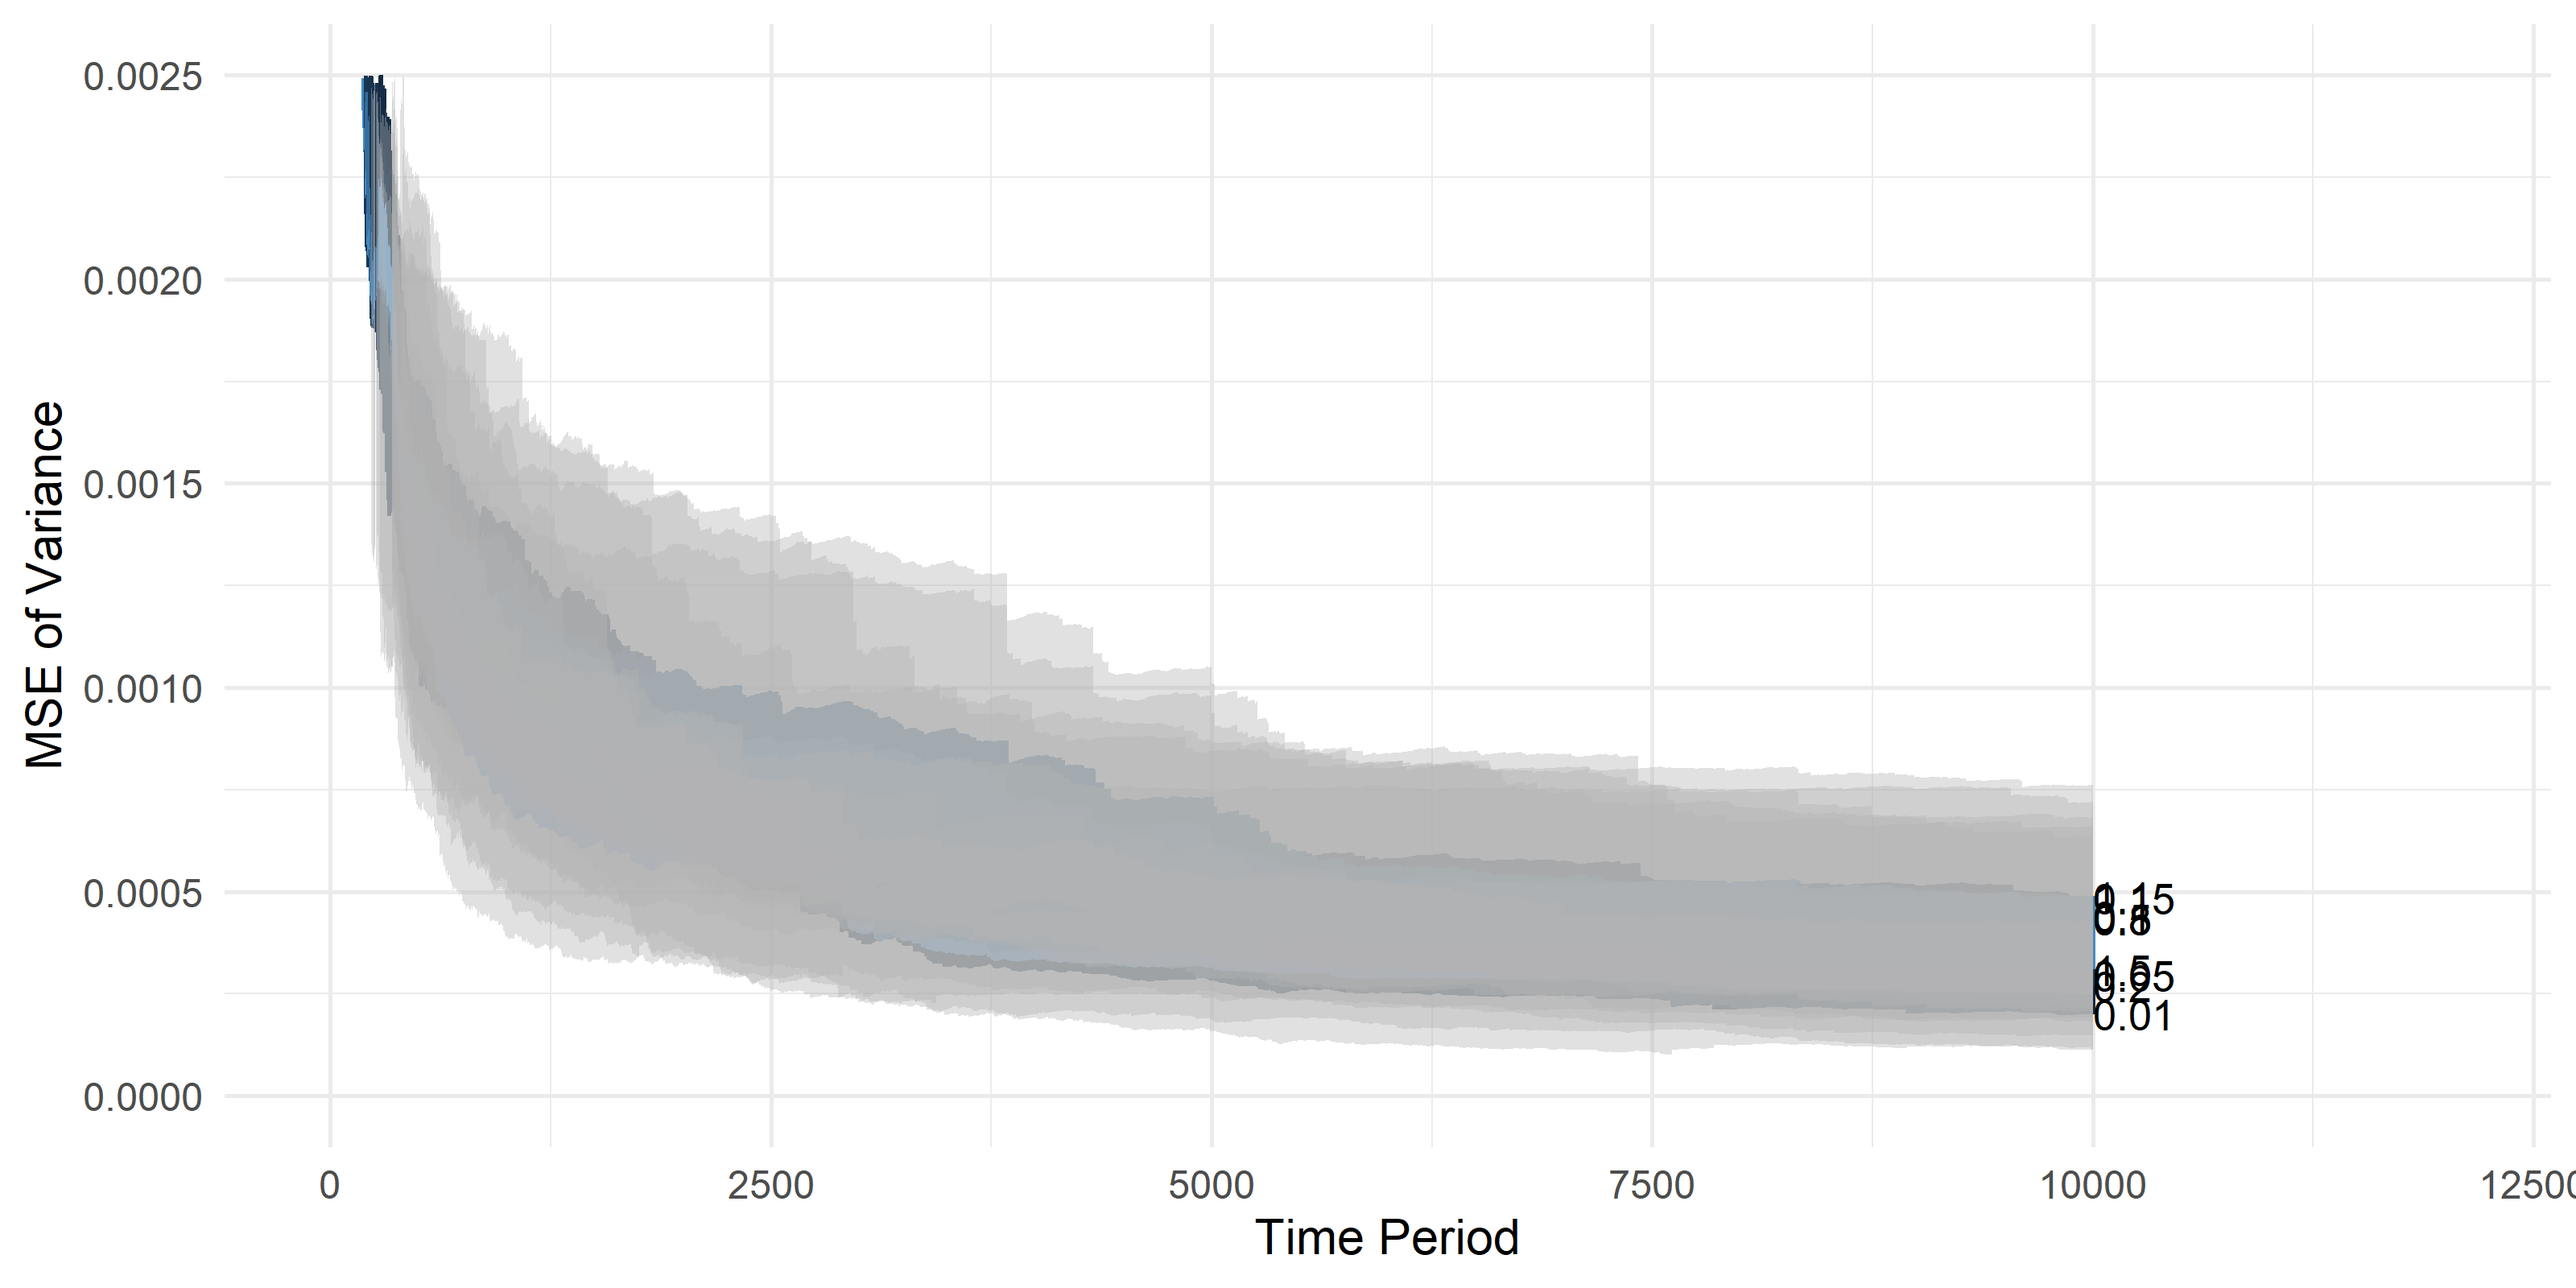
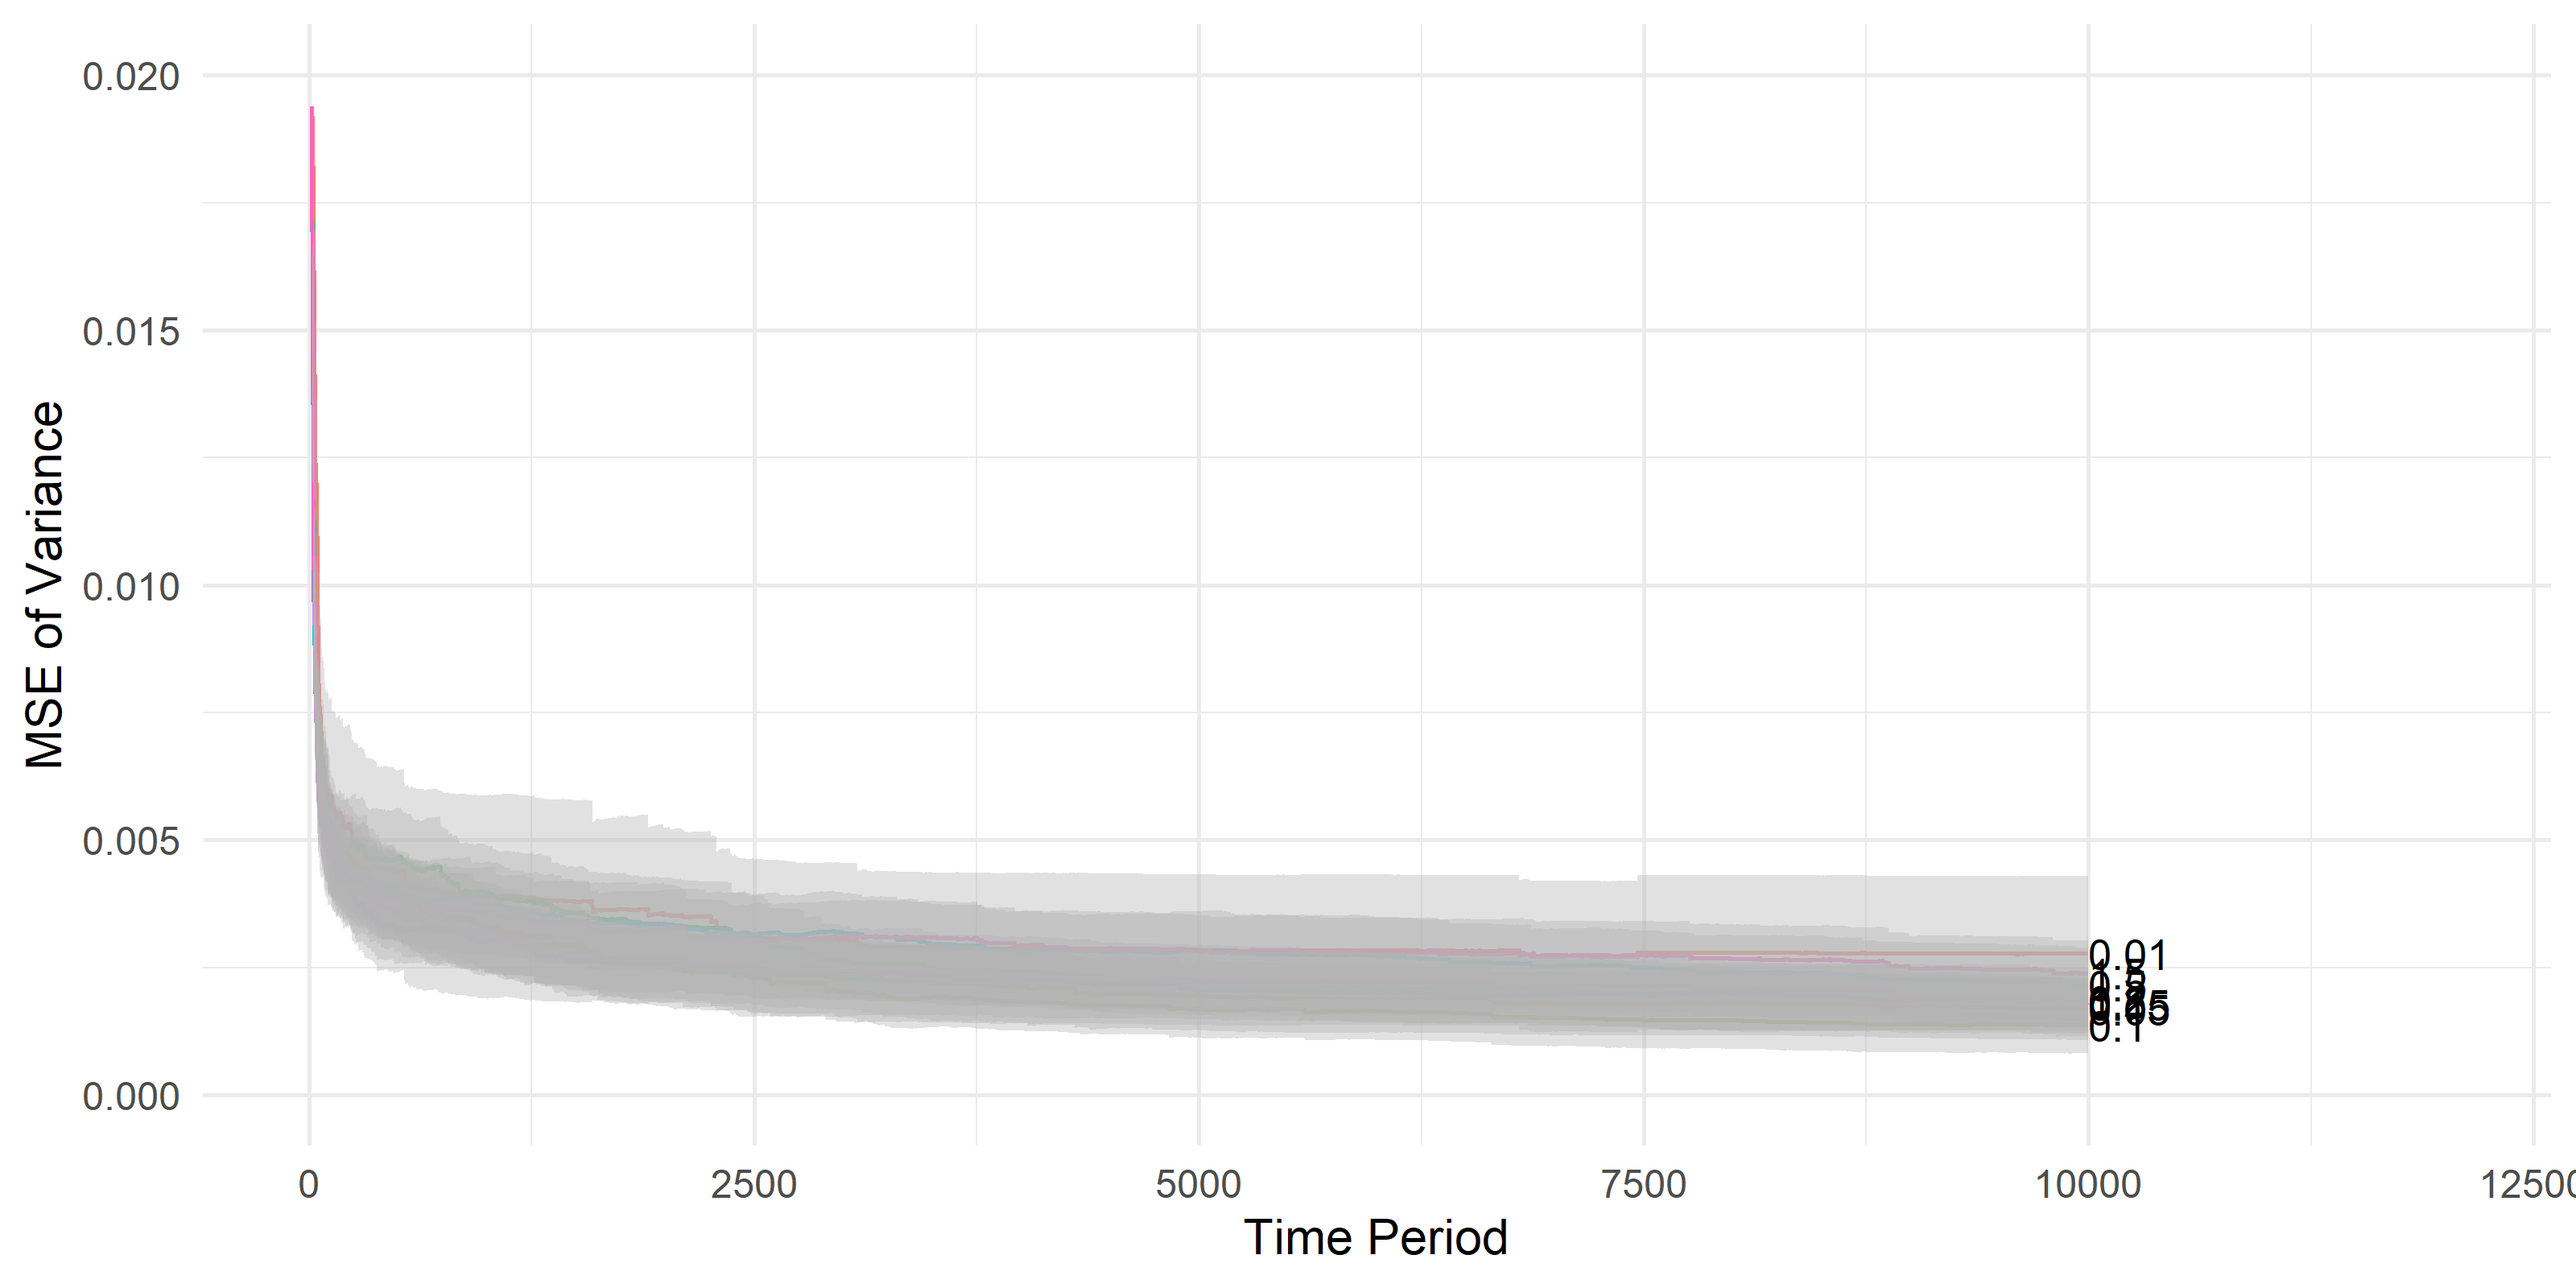
adding batched thompson sampling for bernolli bandits

diff --git a/algorithms/thompson_inf_bern_batched.py b/algorithms/thompson_inf_bern_batched.py
@@ -1,0 +1,73 @@
+import numpy as np
+from utils import thompson_arm_pull_bern
+from bandit import Bandit
+from math import sqrt
+
+
+def calc_eps_n(bandit, xi):
+    sum_of_st_err = (np.array(bandit.var_est_tracker) / np.array(
+        bandit.arm_pull_tracker)).sum()
+    eta = sum_of_st_err / (bandit.num_arms * xi)
+    eps_n = eta / (1 + eta)
+    return eps_n
+
+
+def thomp_inf_bern_batched(bandit, num_rounds, xi=0.05, cap_prop=False,
+                           batch_size=100):
+    """Function that reproduces the steps involved in Thompson sampling
+        algorithm"""
+    print("---------------Running Thompson Inf Bern Batched ---------------")
+
+    # we use 2 in order to calculate sample variance
+    num_arms = bandit.num_arms
+    num_initial_pulls = int(batch_size/num_arms)
+    for ite in range(num_initial_pulls):
+        for arm in range(num_arms):
+            bandit.pull_arm(arm)
+
+    # beta bernoulli updation process
+    prior_params = [[1, 1] for i in range(num_arms)]
+    var_allocs = 0
+    for batch in range(int(num_rounds/batch_size)-1):
+        arm_counts = [0 for i in range(num_arms)]
+        rewards = [0 for i in range(num_arms)]
+        eps_n = calc_eps_n(bandit, xi)
+        # variance based, we pick arm proportional to the variance of
+        # mean estimate, i.e. s^2/n
+        var_of_mean_est = \
+            np.array(bandit.var_est_tracker) / np.array(
+                bandit.arm_pull_tracker)
+        # normalizing std.err square for calculating probabilities
+        norm_prob = [v / sum(var_of_mean_est) for v in var_of_mean_est]
+        for j in range(batch_size):
+            if np.random.uniform(0, 1) < eps_n:
+                var_allocs += 1
+                arm_var = np.random.choice(list(range(bandit.num_arms)),
+                                           p=norm_prob)
+                arm_counts[arm_var] += 1
+                bandit.pull_arm(arm_var)
+                x = bandit.reward_tracker[-1]
+                rewards[arm_var] += x
+            else:
+                chosen_arm = thompson_arm_pull_bern(param_lis=prior_params)
+                arm_counts[chosen_arm] += 1
+                bandit.pull_arm(chosen_arm)
+                x = bandit.reward_tracker[-1]
+                rewards[chosen_arm] += x
+        
+        # We calculate the posterior parameters of the beta distribution
+        # after batch allocation is done
+        for arm in range(num_arms):
+            prior_params[arm][0] += rewards[arm]
+            prior_params[arm][1] += arm_counts[arm] - rewards[arm]
+            
+    return bandit
+
+if __name__ == '__main__':
+    # Define bandit
+    for i in range(10):
+        num_rounds = 3000
+        thompson_bandit = Bandit(name='thompson_sampling',
+                                 arm_means=[0.1, 0.2, 0.3],
+                                 dist_type='Bernoulli')
+        thomp_inf_bern_batched(thompson_bandit, num_rounds=num_rounds, cap_prop=False)

diff --git a/algorithms/thomp_bern_batched.py b/algorithms/thomp_bern_batched.py
@@ -1,0 +1,49 @@
+from bandit import Bandit
+from utils import thompson_arm_pull_bern
+from math import sqrt
+
+
+def thompson_sampling_bern_batched(bandit, num_rounds, type_of_pull='single',
+                            cap_prop=False, batch_size=100):
+    """Function that reproduces the steps involved in Thompson sampling
+    algorithm"""
+    print("---------------Running Thompson Sampling Bern "
+          "batched---------------")
+
+    # we use 2 in order to calculate sample variance
+    num_arms = bandit.num_arms
+    num_initial_pulls = int(batch_size/num_arms)
+    for ite in range(num_initial_pulls):
+        for arm in range(num_arms):
+            bandit.pull_arm(arm)
+
+    # beta bernoulli updation process
+    prior_params = [[1, 1] for i in range(num_arms)]
+
+    for batch in range(int(num_rounds/batch_size)-1):
+        arm_counts = [0 for i in range(num_arms)]
+        rewards = [0 for i in range(num_arms)]
+        for j in range(batch_size):
+            chosen_arm = thompson_arm_pull_bern(param_lis=prior_params, type_of_pull=type_of_pull)
+            arm_counts[chosen_arm] += 1
+            bandit.pull_arm(chosen_arm)
+            x = bandit.reward_tracker[-1]
+            rewards[chosen_arm] += x
+        
+        # We calculate the posterior parameters of the beta distribution
+        # after the batch is completely allocated
+        for arm in range(num_arms):
+            prior_params[arm][0] += rewards[arm]
+            prior_params[arm][1] += arm_counts[arm] - rewards[arm]
+
+    return bandit
+
+
+if __name__ == '__main__':
+    # Define bandit
+    for i in range(10):
+        num_rounds = 1000
+        thompson_bandit = Bandit(name='thompson_sampling',
+                                 arm_means=[0.1, 0.2, 0.3],
+                                 dist_type='Bernoulli')
+        thompson_sampling_bern_batched(thompson_bandit, num_rounds=num_rounds, type_of_pull="monte_carlo", cap_prop=True)

diff --git a/utils.py b/utils.py
@@ -161,7 +161,7 @@ def thompson_arm_pull(mean_lis, var_lis, type_of_pull='single', cap_prop=None):
         return chosen_arm, prop_score_lis
 
 
-def thompson_arm_pull_bern(param_lis, type_of_pull, cap_prop=None):
+def thompson_arm_pull_bern(param_lis, type_of_pull='single', cap_prop=None):
     """
         :param mean_lis: mean list of all arms
         :param type_of_pull: either single pull or monte carlo pull

diff --git a/run_sim.py b/run_sim.py
@@ -11,7 +11,7 @@ def run_sim(file_path, true_means, true_vars=None, dist_type='Normal', xi=0.05):
 
     estimator_list=['aipw', 'eval_aipw', 'ipw']
 
-    sim = BanditSimulation(num_ite=62, arm_means=true_means,
+    sim = BanditSimulation(num_ite=1, arm_means=true_means,
                            arm_vars=true_vars,
                            eps_inf=0.2,
                            horizon=10000,
